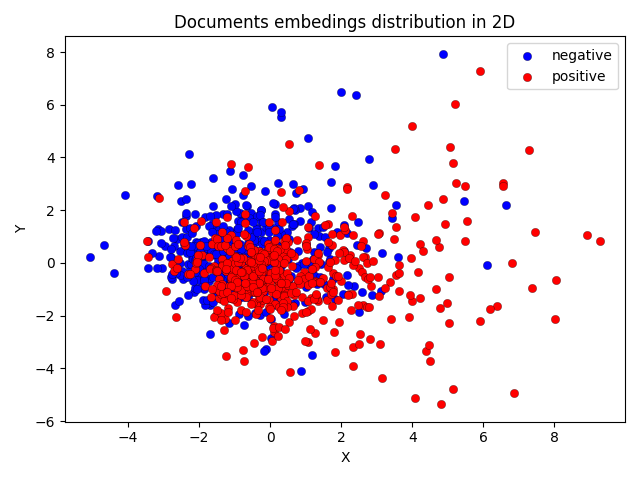
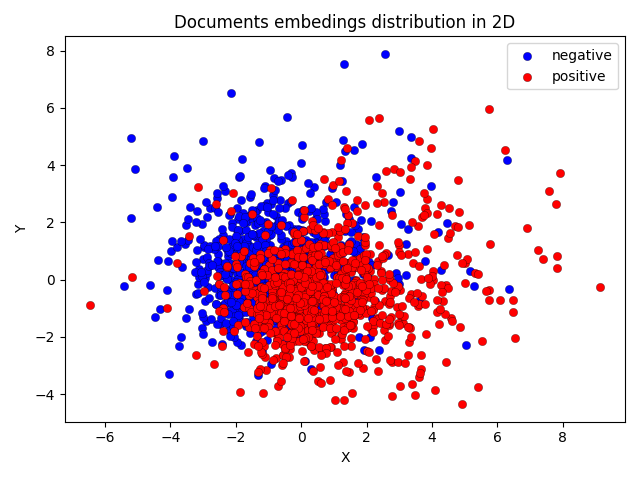
refactor

diff --git a/plot_doc2vec.py b/plot_doc2vec.py
@@ -9,17 +9,13 @@ from mpl_toolkits.mplot3d import Axes3D
 
 df = pd.read_csv("data/preprocessed_imdb.csv")
 
-X = np.array(df['lematized_tokens'])[:3000]
-y = np.array(df['sentiment'])[:3000]
+X = np.array(df['lematized_tokens'])
+y = np.array(df['sentiment'])
 
-
-max_epochs = 40
-alpha = 0.025
 
 # train the Doc2vec model
 model = Doc2Vec()
 X_t = model.fit_transform(X)
-exit()
 
 print(X_t.shape)
 

diff --git a/plot_word2vec.py b/plot_word2vec.py
@@ -18,8 +18,8 @@ path = "data/preprocessed_imdb.csv"
 df = pd.read_csv(path)
 
 
-X = np.array(df["lematized_tokens"])[:100]
-y = np.array(df["sentiment"])[:100]
+X = np.array(df["lematized_tokens"])
+y = np.array(df["sentiment"])
 
 
 model = Word2Vec(vector_size=VECTOR_SIZE, min_count=1, workers=CORES-1)
